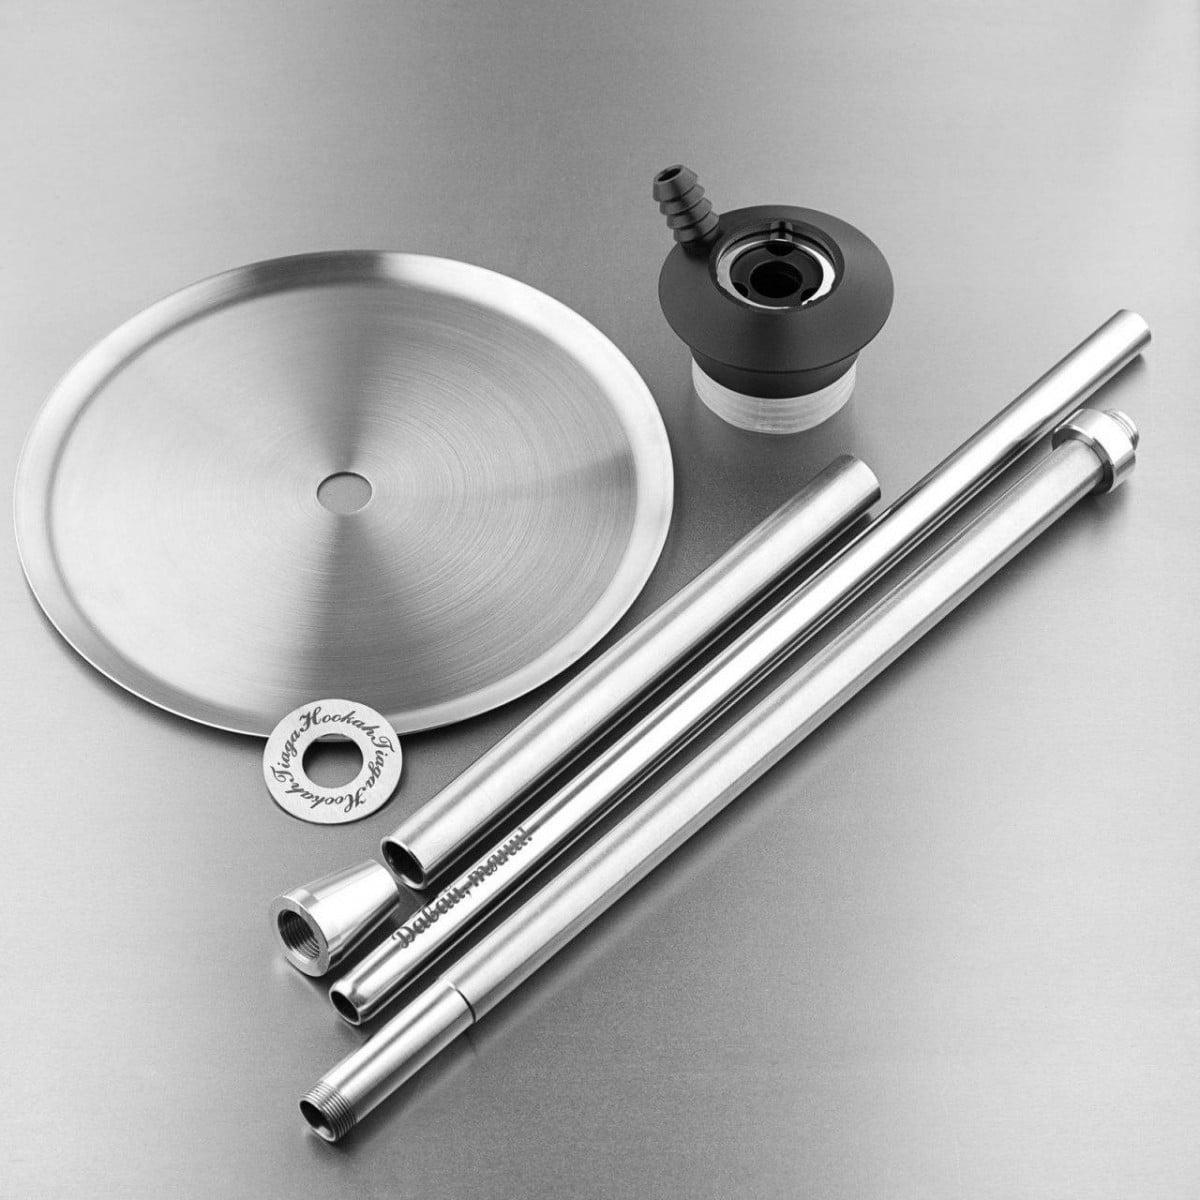
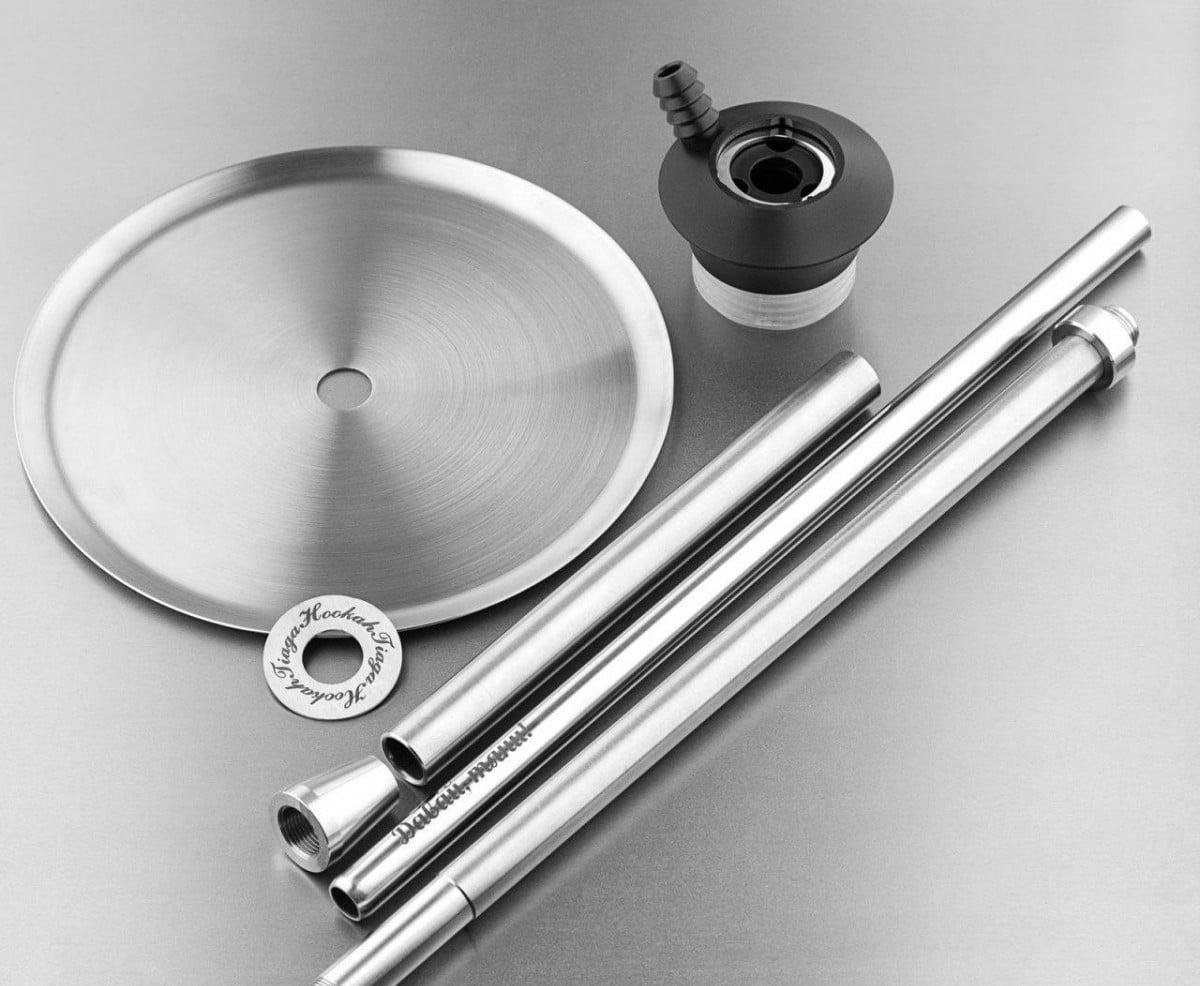
Accessories slider is not done

Changed region(s): [[0.0308, 0.0609, 0.9558, 1.0]]

diff --git a/snout2.0/css/style.css b/snout2.0/css/style.css
@@ -129,7 +129,7 @@ button:focus {
 } */
 
 .carousel-inner img {
-    margin: 50px auto;
+    margin: 135px auto;
     margin-bottom: 70px;
 }
 
@@ -147,9 +147,6 @@ button:focus {
 }
 
 
-/* tabak-block */
-
-
 /* Tabacos */
 
 #tabak {
@@ -157,7 +154,13 @@ button:focus {
     font-size: 25px;
 }
 
-#line1 {
+#features {
+    color: white;
+    font-size: 25px;
+}
+
+#line1,
+#line2 {
     width: 100%;
     text-align: center;
     border-bottom: 1px solid #000;
@@ -167,14 +170,16 @@ button:focus {
     font-size: 2vw;
 }
 
-p #line1-1 {
+p #line1-1,
+#line2-2 {
     background: #fff;
     padding: 0 10px;
     float: left;
     margin-left: 100px;
 }
 
-p #line1-2 {
+p #line1-2,
+#line2-1 {
     background: #fff;
     padding: 0 10px;
     float: right;
@@ -289,7 +294,7 @@ p #line1-2 {
 /* End Tabacos */
 
 
-/* TOBACCO SLIDER*/
+/* ACSESSORIZE */
 
 #nextT {
     /* background-color: black; */
@@ -318,14 +323,20 @@ p #line1-2 {
 
 /* Accessorize SLIDER */
 
+#features-block {
+    background-color: lightgray;
+    background: url(../images/Main-content/lighter.jpg);
+    margin-top: 1.3%;
+    height: 220px;
+    text-align: center;
+}
 
-/*
 .containerTobacco {
-    margin: 0 auto;
+    margin: 250px auto;
     width: 250px;
     height: 200px;
     position: relative;
-    perspective: 500px;
+    perspective: 400px;
 }
 
 .carouselTobacco {
@@ -352,7 +363,12 @@ p #line1-2 {
 
 .a {
     transform: rotateY(0deg) translateZ(250px);
-    background: #ed1c24;
+    background-color: #fcf133;
+}
+
+.acce {
+    margin-top: -10%;
+    border-radius: 20px;
 }
 
 .b {
@@ -413,7 +429,6 @@ p #line1-2 {
 .prevTobacco {
     left: 5em;
 }
-*/
 
 
 /* END ACCESSORIZE SLIDER */
@@ -443,8 +458,12 @@ p #line1-2 {
 
 @media (max-width: 1281px) {
     .carousel-inner img {
-        margin: 50px auto;
+        margin: 110px auto;
         margin-bottom: 45px;
+    }
+    .containerTobacco {
+        width: 200px;
+        height: 150px;
     }
 }
 
@@ -486,6 +505,13 @@ p #line1-2 {
     /* #nameT {
         font-size: 20px;
     } */
+    .containerTobacco {
+        margin: 200px auto;
+        width: 250px;
+        height: 150px;
+        perspective: 480px;
+        /* margin-right: 0%; */
+    }
     /* END BODY */
 }
 
@@ -530,6 +556,13 @@ p #line1-2 {
     /* .carousel-inner img {
         margin: 112px auto;
     } */
+    .containerTobacco {
+        margin: 180px auto;
+        width: 250px;
+        height: 150px;
+        perspective: 480px;
+        /* margin-right: 0%; */
+    }
     /* END BODY */
 }
 
@@ -639,6 +672,16 @@ p #line1-2 {
         font-size: 14px;
         line-height: 19px;
     }
+    .carousel-inner img {
+        margin: 100px auto;
+    }
+    .containerTobacco {
+        margin: 160px auto;
+        width: 250px;
+        height: 150px;
+        perspective: 480px;
+        /* margin-right: 0%; */
+    }
     /* END BODY */
 }
 
@@ -658,17 +701,26 @@ p #line1-2 {
         font-size: 13px;
         line-height: 18px;
     }
+    .containerTobacco {
+        margin: 150px auto;
+        width: 250px;
+        height: 150px;
+        perspective: 500px;
+        /* margin-right: 0%; */
+    }
 }
 
 @media(max-width:767px) {
-    p #line1-1 {
+    p #line1-1,
+    #line2-1 {
         display: none;
     }
     #tabak {
         text-align: center;
         font-size: 22px;
     }
-    p #line1-2 {
+    p #line1-2,
+    #line2-2 {
         float: none;
         margin-right: 0;
         margin-left: 0;
@@ -699,6 +751,13 @@ p #line1-2 {
     .priceT {
         font-size: 13px;
         line-height: 17px;
+    }
+    .containerTobacco {
+        margin: 150px auto;
+        width: 250px;
+        height: 150px;
+        perspective: 550px;
+        /* margin-right: 0%; */
     }
 }
 
@@ -733,9 +792,20 @@ p #line1-2 {
         font-size: 11px;
         line-height: 16px;
     }
+    .containerTobacco {
+        margin: 130px auto;
+        width: 250px;
+        height: 150px;
+        perspective: 700px;
+        /* margin-right: 0%; */
+    }
 }
 
 @media(max-width:630px) {
+    /* .carousel-inner img {
+        margin: 106px auto;
+        margin-bottom: 0;
+    } */
     .Undertext {
         padding: 5px;
         margin-bottom: -30px;
@@ -754,6 +824,13 @@ p #line1-2 {
         font-size: 11px;
         line-height: 16px;
     }
+    .containerTobacco {
+        margin: 90px auto;
+        width: 250px;
+        height: 150px;
+        perspective: 4000px;
+        /* margin-right: 0%; */
+    }
 }
 
 @media(max-width:440px) {
@@ -767,7 +844,8 @@ p #line1-2 {
     .ImgT-2 {
         display: block;
     }
-    p #line1-2 {
+    p #line1-2,
+    #line2-2 {
         font-size: 15px;
     }
     .Undertext {
@@ -808,6 +886,26 @@ p #line1-2 {
     #carouselExampleIndicatorsT img {
         margin: 50px auto;
         margin-bottom: 0;
+    }
+    .containerTobacco {
+        margin: 60px auto;
+        width: 250px;
+        height: 150px;
+        perspective: 4000px;
+        /* margin-right: 0%; */
+    }
+    #features-block {
+        background-color: lightgray;
+        background: url(../images/Main-content/lighter.jpg);
+        margin-top: 0%;
+    }
+    .carouselTobacco {
+        height: 100%;
+        width: 100%;
+        position: absolute;
+        transform-style: preserve-3d;
+        transition: transform 1s;
+        margin-top: 7px;
     }
 }
 

diff --git a/snout2.0/index.html b/snout2.0/index.html
@@ -208,23 +208,34 @@
     </div>
 
 
+    <div id="features">g</div>
 
+    <p id="line2"><span id="line2-1">hookah store</span><span id="line2-2">Accessories</span></p>
 
-    <!-- Slider for ACCESSORIZE
-    <div id="tobacco">
-        <div class="containerTobacco">
-            <div class="carouselTobacco">
-                <div class="item a">A</div>
-                <div class="item b">B</div>
-                <div class="item c">C</div>
-                <div class="item d">D</div>
-                <div class="item e">E</div>
-                <div class="item f">F</div>
+    <div id="features-block">
+
+        <!-- Slider for ACCESSORIZE -->
+        <div id="tobacco">
+            <div class="containerTobacco">
+                <div class="carouselTobacco">
+                    <div class="item a">
+                        <img class="acce" src="images/Hookah/hookah_6.jpg" width="100% " class="ImgT">
+                    </div>
+                    <div class="item b">B</div>
+                    <div class="item c">C</div>
+                    <div class="item d">D</div>
+                    <div class="item e">E</div>
+                    <div class="item f">F</div>
+                </div>
             </div>
+            <div class="nextTobacco">Next</div>
+            <div class="prevTobacco">Prev</div>
         </div>
-        <div class="nextTobacco">Next</div>
-        <div class="prevTobacco">Prev</div>
-    </div> -->
+
+
+    </div>
+
+
 
 
 
